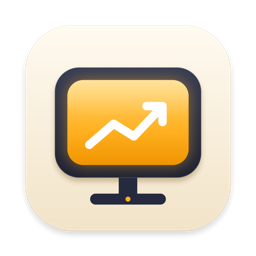
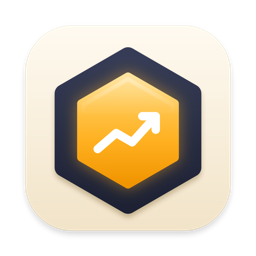
ElBee Stats v1.3.1

Changed region(s): [[0.1875, 0.1875, 0.8125, 0.875]]

diff --git a/CHANGELOG.md b/CHANGELOG.md
@@ -1,5 +1,13 @@
 # Changelog
 
+## v1.3.1: A new icon
+
+ElBee Stats has a new icon, so it no longer looks like ElBee Player.
+
+### Changed
+
+- **App icon:** a honeycomb cell with a rising line replaces the screen on a stand, which was too easy to mistake for ElBee Player's TV. It keeps the same cream, ink and amber. The menu bar icon and the mark beside the ElBee Stats name change to match.
+
 ## v1.3.0: Stars, launches and a desktop widget
 
 See how your stars grew from the very first one, compare how each release launched, and keep an eye on downloads from your desktop.
